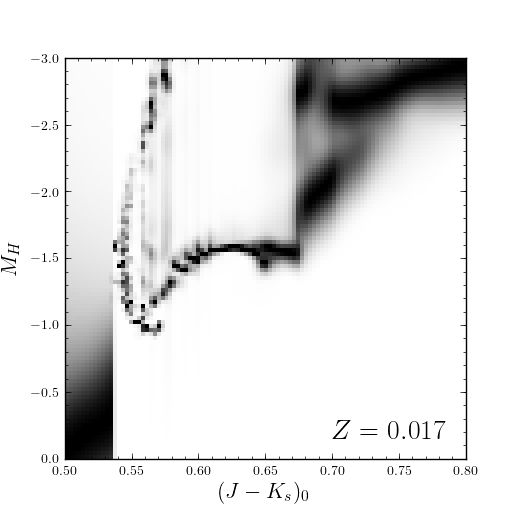
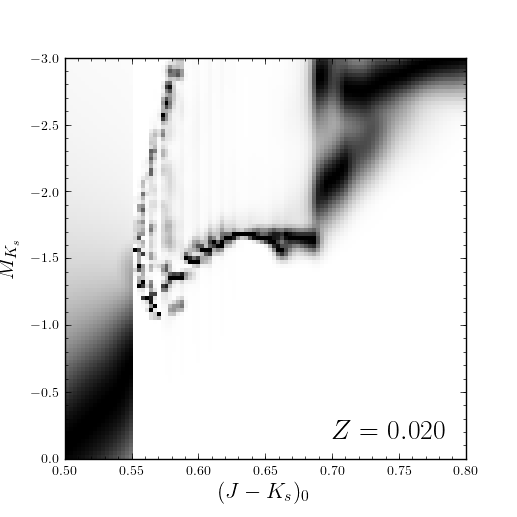
more README

Changed region(s): [[0.1238, 0.0928, 0.9284, 0.8975], [0.8046, 0.8046, 0.8665, 0.8665], [0.0, 0.4642, 0.0619, 0.5571]]

diff --git a/README.md b/README.md
@@ -265,7 +265,7 @@ above paper) to be computed. The tools in this package are kept
 general such that they can also be useful in defining other subsamples
 in APOGEE.
 
-#RC catalog tools
+###RC catalog tools
 
 The RC catalog is constructed by inspecting the properties of stellar
 isochrones computed by stellar-evolution codes and finding the region
@@ -280,12 +280,13 @@ with *rcmodel* being the equivalent of the more general
 (http://github.com/jobovy/isodist) library with accompanying data
 files; see the *isodist* website for info on how to obtain this.
 
-For example, we can load solar metallicity isochrones from the
-[PARSEC](http://stev.oapd.inaf.it/cgi-bin/cmd) library for the RC using
+For example, we can load near-solar metallicity isochrones from the
+[PARSEC](http://stev.oapd.inaf.it/cgi-bin/cmd) library for the RC
+using
 
 ```
 from apogee.samples.rc import rcmodel
-rc= rcmodel(Z=0.017)
+rc= rcmodel(Z=0.02)
 ```
 
 This command will take about a minute to execute. We can then plot the
@@ -297,15 +298,15 @@ rc.plot(nbins=101,conditional=True)
 
 which gives
 
-<img src="_readme_files/_rc_cmd.png" alt="RC CMD for solar metallicity" width="600" />
+<img src="_readme_files/_rc_cmd.png" alt="RC CMD for solar metallicity" width="450" />
 
 We can also calculate properties of the absolute magnitude distribution as a function of color:
 
 ```
 rc.mode(0.65)
--1.5780000000000001
+-1.641
 rc.sigmafwhm(0.65)
-0.12716028243167124
+0.047685105911876829
 ```
 
 and we can make the same plot as above, but including the model, full-width, half-maximum, and the cuts that isolate the narrow part of the luminosity distribution
@@ -316,4 +317,29 @@ rc.plot(nbins=101,conditional=True,overlay_mode=True,overlay_cuts=True)
 
 (this takes a while) which shows
 
-<img src="_readme_files/_rc_cmd_wmode.png" alt="RC CMD for solar metallicity, with mode, FWHM, and cuts" width="600" />
+<img src="_readme_files/_rc_cmd_wmode.png" alt="RC CMD for solar metallicity, with mode, FWHM, and cuts" width="450" />
+
+We can also compute the average mass of an RC star, the fraction of a
+stellar population's mass is present in the RC, and the amount of
+stellar population mass per RC star. These are all calculated as a
+function of log10(age), so a grid of those needs to be specified
+
+```
+lages= numpy.linspace(numpy.log10(0.8),1.,20)
+amass= rc.avgmass(lages)
+plot(lages,amass,'k-')
+```
+
+which gives
+
+<img src="_readme_files/_rc_avgmass.png" alt="Average mass as a function of age, Z=0.02" width="450" />
+
+and
+
+```
+popmass= rc.popmass(lages)
+plot(lages,popmass,'k-')
+```
+
+<img src="_readme_files/_rc_avgmass.png" alt="Average mass as a function of age, Z=0.02" width="450" />
+
